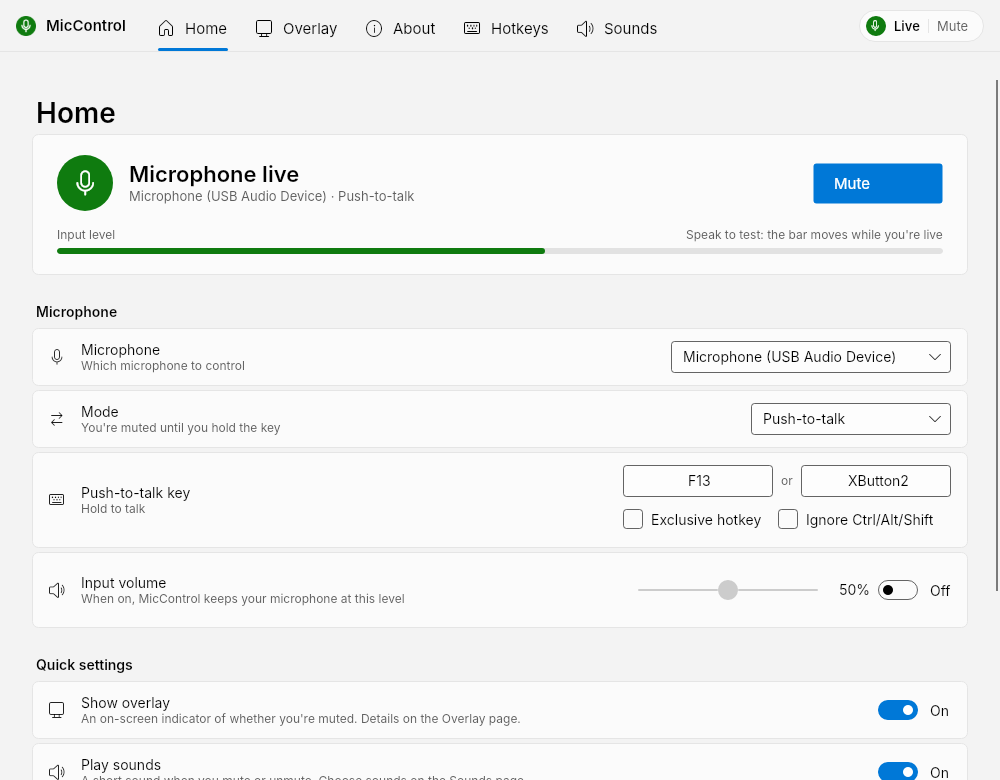
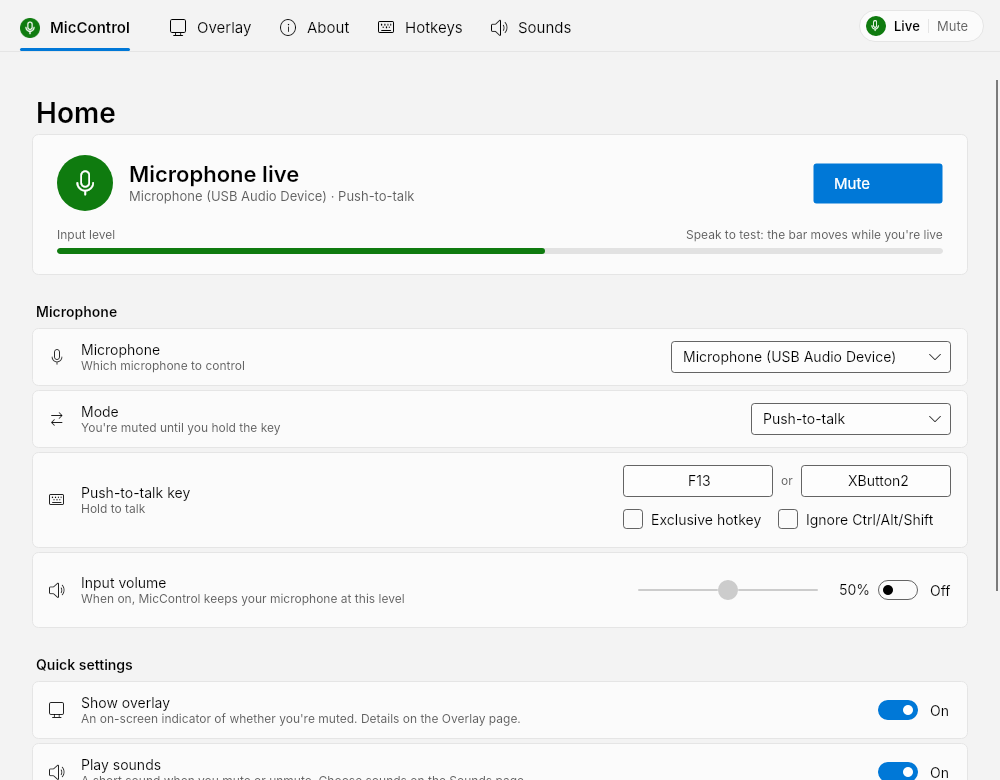
Make the app name the Home tab
- The first tab is the live/muted icon and "MicControl" in place of "Home", like a browser's logo; it gets the underline and hover like the other tabs
- The header's separate icon and name are gone, so the name shows once

diff --git a/Sources/MicControl.UI/ViewModels/MainViewModel.cs b/Sources/MicControl.UI/ViewModels/MainViewModel.cs
@@ -21,7 +21,11 @@ public enum Page
     Sounds,
 }
 
-public sealed record NavItem(Page Page, string Title, string Glyph);
+public sealed record NavItem(Page Page, string Title, string Glyph)
+{
+    /// <summary>The first tab is the app's icon and name, and leads Home (like a browser's logo).</summary>
+    public bool IsBrand => Page == Page.Home;
+}
 
 /// <summary>
 /// The app's single view model. Split into partial files per page: Home (this file), CustomHotkeys, Sounds,
@@ -122,7 +126,7 @@ public sealed partial class MainViewModel : ObservableObject, IDisposable
     /// <summary>Every page, in tab order (the optional pages last, in the order of their switches); <see cref="NavItems"/> holds the ones currently shown.</summary>
     private static readonly NavItem[] AllNavItems =
     [
-        new(Page.Home, "Home", ""),
+        new(Page.Home, AppName, string.Empty),
         new(Page.Overlay, "Overlay", ""),
         new(Page.About, "About", ""),
         new(Page.Hotkeys, "Hotkeys", ""),

diff --git a/Sources/MicControl.Tests/Ui/MainWindowTests.cs b/Sources/MicControl.Tests/Ui/MainWindowTests.cs
@@ -85,14 +85,14 @@ public sealed class MainWindowTests
         window.Show();
 
         var nav = window.GetVisualDescendants().OfType<ListBox>().Single(l => l.Classes.Contains("tabs"));
-        Assert.Equal(["Home", "Overlay", "About", "Hotkeys", "Sounds"], harness.ViewModel.NavItems.Select(n => n.Title));
+        Assert.Equal(["MicControl", "Overlay", "About", "Hotkeys", "Sounds"], harness.ViewModel.NavItems.Select(n => n.Title));
 
         foreach (var item in harness.ViewModel.NavItems)
         {
             nav.SelectedItem = item;
             window.UpdateLayout();
             var title = window.GetVisualDescendants().OfType<TextBlock>().Where(t => t.Classes.Contains("pageTitle") && t.IsEffectivelyVisible);
-            Assert.Equal(item.Title, Assert.Single(title).Text, ignoreCase: true);
+            Assert.Equal(item.IsBrand ? "Home" : item.Title, Assert.Single(title).Text, ignoreCase: true); // the name tab leads Home
         }
     }
 

diff --git a/CLAUDE.md b/CLAUDE.md
@@ -45,7 +45,7 @@ System-wide microphone mute/unmute with hotkeys, an always-on-top overlay, sound
 | Project | Contents | Rules |
 | --- | --- | --- |
 | `MicControl.Core` (net10.0) | Settings model and JSON store (`Settings/`), MicSwitch 1.x config import, `HotkeyGesture` text format, `MuteRules`, `NotificationSounds`, update feed parsing (`Updates/ReleaseFeed`), setup command line and install layout (`Installation/`), platform contracts (`Platform/PlatformServices.cs`) | No UI or OS dependencies |
-| `MicControl.UI` (net10.0) | Avalonia UI: `Views/MainWindow` (no system title bar: `ExtendClientAreaToDecorationsHint` puts our 52 px header in its place, like a browser, with the icon and name, page tabs (`ListBox.tabs`), on every page a status chip (`Button.statusChip`: mic dot, state, and a quiet Mute/Unmute label; one click toggles; deliberately smaller and quieter than Home's status card), and room for the minimize/maximize/close buttons. On Windows those are the system's own, and Windows would still draw its small icon and title under the header, so `MainWindow` calls `IWindowInterop.HideTitleBarText` (`SetWindowThemeAttribute`, no caption, no icon) once it opens; where Avalonia draws the buttons itself, the `HeaderDecorations` theme (`WindowDecorationsTheme`, based on Fluent's) hides its title text and full-screen button; the header's background has `WindowDecorationProperties.ElementRole=TitleBar` so it drags, and its tabs and buttons `User` so they get clicks; setup has its own drag strip), tray `Views/TrayIcon`, pages in `Views/Pages/` (Home, Overlay, About, then the optional Hotkeys and Sounds, and first-run Setup), `OverlayWindow` + `Controls/OverlayBadge`, `TrayIcon` (right-click menu), one `MainViewModel` split into partial files per page, theme in `Themes/`, composition in `App.axaml.cs` | Talk to the OS only through the `MicControl.Platform` interfaces |
+| `MicControl.UI` (net10.0) | Avalonia UI: `Views/MainWindow` (no system title bar: `ExtendClientAreaToDecorationsHint` puts our 52 px header in its place, like a browser, with the icon and name, page tabs (`ListBox.tabs`; the first, Home, is the live/muted app icon and "MicControl" in place of a "Home" label, like a browser's logo), on every page a status chip (`Button.statusChip`: mic dot, state, and a quiet Mute/Unmute label; one click toggles; deliberately smaller and quieter than Home's status card), and room for the minimize/maximize/close buttons. On Windows those are the system's own, and Windows would still draw its small icon and title under the header, so `MainWindow` calls `IWindowInterop.HideTitleBarText` (`SetWindowThemeAttribute`, no caption, no icon) once it opens; where Avalonia draws the buttons itself, the `HeaderDecorations` theme (`WindowDecorationsTheme`, based on Fluent's) hides its title text and full-screen button; the header's background has `WindowDecorationProperties.ElementRole=TitleBar` so it drags, and its tabs and buttons `User` so they get clicks; setup has its own drag strip), tray `Views/TrayIcon`, pages in `Views/Pages/` (Home, Overlay, About, then the optional Hotkeys and Sounds, and first-run Setup), `OverlayWindow` + `Controls/OverlayBadge`, `TrayIcon` (right-click menu), one `MainViewModel` split into partial files per page, theme in `Themes/`, composition in `App.axaml.cs` | Talk to the OS only through the `MicControl.Platform` interfaces |
 | `MicControl.Windows` | Core Audio via NAudio, low-level keyboard/mouse hooks (`GlobalHotkeyService`, `VirtualKeys`), WASAPI playback, autostart (Run key or scheduled task), overlay click-through, `WindowsInstaller` | Windows-only code goes here |
 | `MicControl` | Windows exe (`MicControl.exe`, also the setup): `Program.cs` (app or setup mode, single instance, show/exit signals, DI registration of Windows services), `UpdateService` (GitHub Releases), `app.manifest` | |
 | `MicControl.Tests` | xUnit v3: core tests plus headless Avalonia UI tests (`Ui/`, with fakes in `Ui/Fakes.cs`) | |
